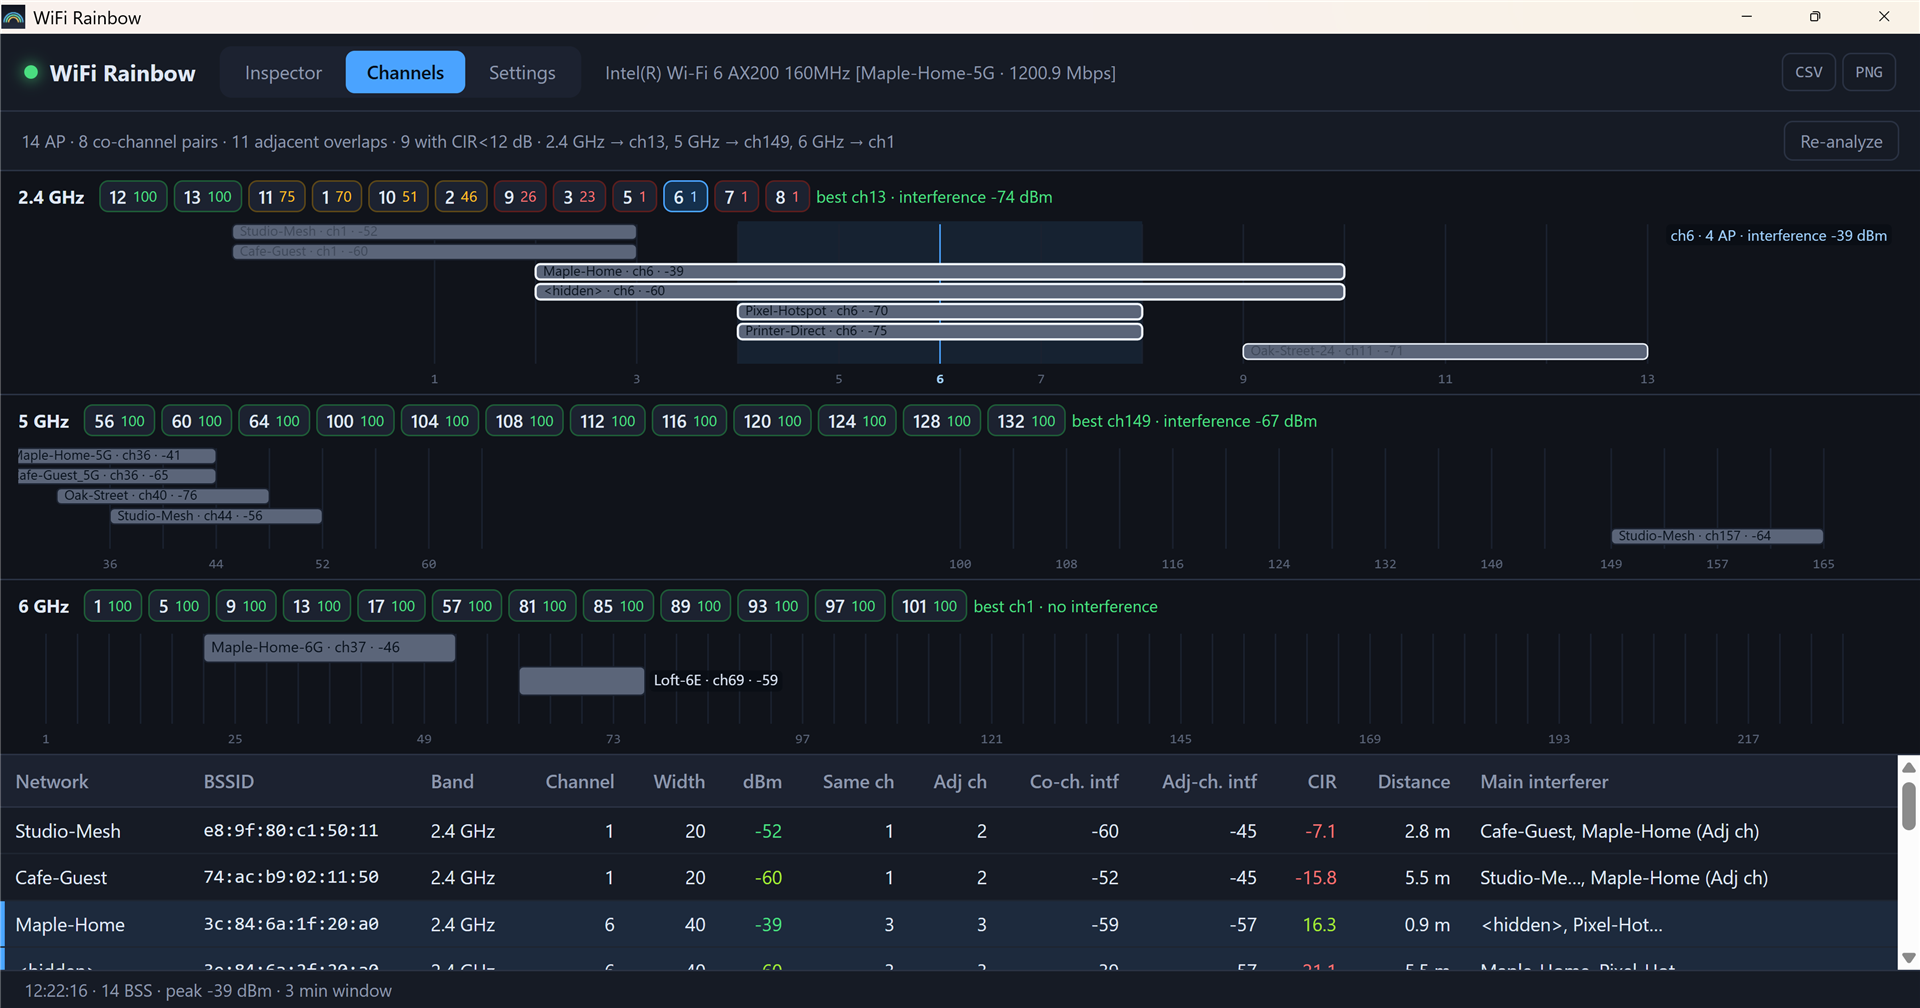
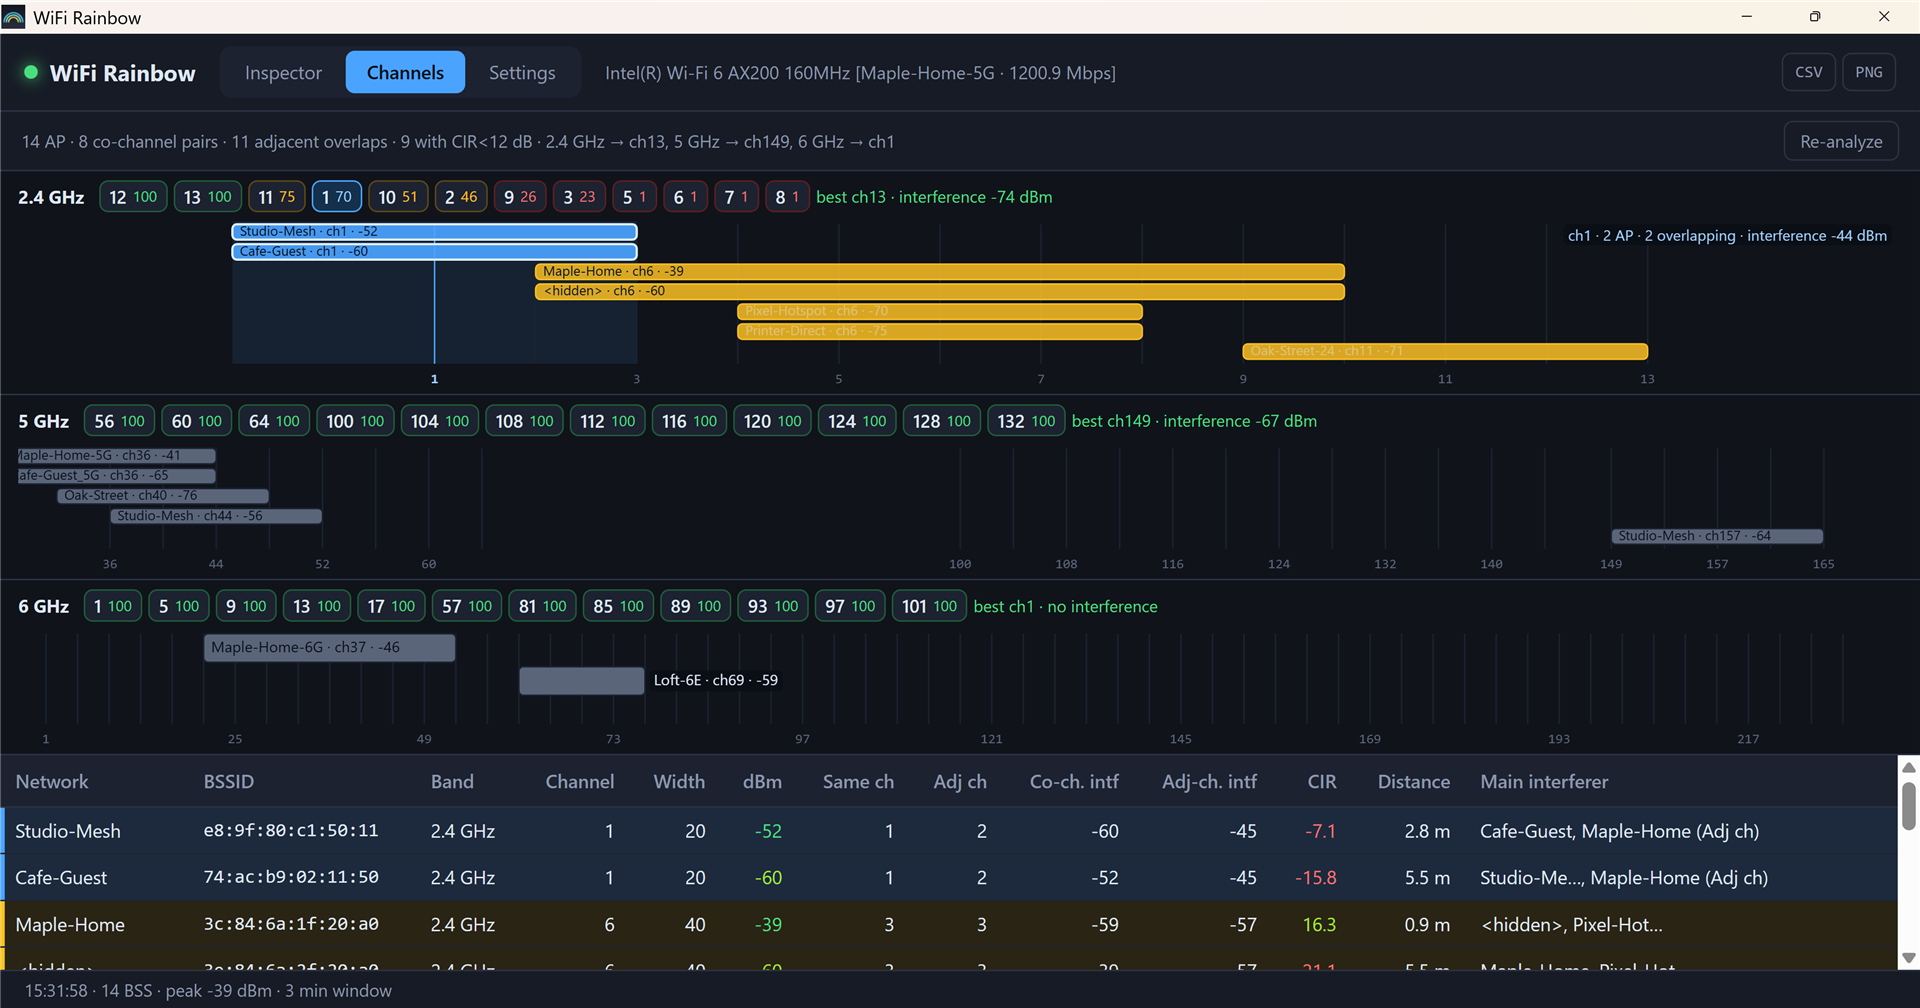
Channels: two-level hover highlight (primary blue, overlap amber)
Hovering a channel used to light up every AP whose spectrum overlapped the
channel centre +/-10 MHz. On 2.4 GHz that means a 20 MHz AP on ch1 lit up
when hovering ch3, which read as "ch3 has four APs". Split the states:

- primary channel == hovered channel: blue fill, light outline
- spectrum overlaps but primary differs: amber fill (interferes with it)
- unrelated: keep the signal colour, dimmed

The corner caption now says "chN · k AP · m overlapping · interference",
table rows use the same two colours (.hl / .hl2), and the self-test probe
checks both counts. Demo hover moved to ch1 so the screenshot shows all
three states; manuals, landing copy and READMEs updated to match.

diff --git a/rust/ui/channels.js b/rust/ui/channels.js
@@ -158,6 +158,23 @@ const Channels = (() => {
     return Math.min(center + 10, s.hi) - Math.max(center - 10, s.lo) > 0;
   }
 
+  /**
+   * 悬停某个信道时一个 AP 的高亮等级：
+   *   2 = 主信道就是这个信道（蓝）
+   *   1 = 主信道不是它，但频谱重叠、会干扰这个信道（琥珀）
+   *   0 = 无关（压暗）
+   * 2.4 GHz 信道间隔只有 5 MHz，一个 20 MHz 的 AP 实际压着相邻 ±4 个信道，
+   * 只按重叠判定会让「悬停 ch3」把 ch1 上的 AP 全点亮，所以要把「在这个信道上」和「会干扰这个信道」分开。
+   */
+  function hlLevel(ap, band, ch) {
+    if (ap.band !== band) return 0;
+    if (ap.channel === ch) return 2;
+    return onChannel(ap, band, ch) ? 1 : 0;
+  }
+
+  const HL_PRIMARY = '#4aa3ff'; // 和悬停竖带 / 评分标签同一个蓝
+  const HL_OVERLAP = '#fbbf24';
+
   function drawSpectrum(cv, bandInfo) {
     const { spec } = bandInfo;
     const hl = hover && hover.band === bandInfo.band ? hover.ch : null;
@@ -228,18 +245,21 @@ const Channels = (() => {
       const y = padT + i * rowH;
       const bh = Math.max(5, rowH - 3);
       const color = rssiColor(ap.rssi);
-      // 高亮态：命中的条全亮 + 白边，其余压暗
-      const hit = hl != null && onChannel(ap, bandInfo.band, hl);
-      const dim = hl != null && !hit;
-      ctx.fillStyle = hexAlpha(color, dim ? 0.18 : hit ? 0.95 : 0.75);
+      // 高亮态：主信道命中的条变蓝 + 亮边，只是频谱重叠的变琥珀，其余保留信号色但压暗
+      const level = hl == null ? -1 : hlLevel(ap, bandInfo.band, hl);
+      const hit = level === 2;
+      const dim = level === 0;
+      const fillHex = level === 2 ? HL_PRIMARY : level === 1 ? HL_OVERLAP : color;
+      const fillA = level === 2 ? 0.92 : level === 1 ? 0.85 : dim ? 0.18 : 0.75;
+      ctx.fillStyle = hexAlpha(fillHex, fillA);
       ctx.beginPath();
       const r = Math.min(3, bh / 2);
       ctx.roundRect ? ctx.roundRect(x0, y, Math.max(3, x1 - x0), bh, r) : ctx.rect(x0, y, Math.max(3, x1 - x0), bh);
       ctx.fill();
-      ctx.strokeStyle = hit ? '#eef4fc' : hexAlpha(color, dim ? 0.3 : 0.95);
+      ctx.strokeStyle = level === 2 ? '#dbeeff' : level === 1 ? HL_OVERLAP : hexAlpha(color, dim ? 0.3 : 0.95);
       ctx.lineWidth = hit ? 1.5 : 1;
       ctx.stroke();
-      jobs.push({ x0, x1, y, bh, color, ap, hit, dim });
+      jobs.push({ x0, x1, y, bh, color, ap, hit, dim, level, fillHex, fillA });
     });
 
     // 第二遍才写标签：块够宽写在块里（字色按块色算），不够宽贴到块外并垫一块深色底衬。
@@ -256,7 +276,7 @@ const Channels = (() => {
       }
     };
 
-    jobs.forEach(({ x0, x1, y, bh, color, ap, hit, dim }) => {
+    jobs.forEach(({ x0, x1, y, bh, ap, dim, fillHex, fillA }) => {
       const label = `${truncate(ap.ssid || t('ch.hidden'), 14)} · ch${ap.channel ?? '?'} · ${ap.rssi}`;
       ctx.globalAlpha = dim ? 0.35 : 1;
       const fs = rowH >= 14 ? 10 : 9;
@@ -284,7 +304,7 @@ const Channels = (() => {
       if (text !== label) text = text + '…';
       const tw = ctx.measureText(text).width;
       if (inside) {
-        ctx.fillStyle = inkOn(color, hit ? 0.95 : 0.75);
+        ctx.fillStyle = inkOn(fillHex, fillA);
         ctx.fillText(text, x0 + 5, ty);
       } else {
         let lx = x1 + 6;
@@ -300,13 +320,21 @@ const Channels = (() => {
     });
 
     cv._labelStats = { bars: aps.length, labeled };
-    cv._hl = hl == null ? null : { ch: hl, hits: jobs.filter((j) => j.hit).map((j) => j.ap.bssid) };
+    cv._hl =
+      hl == null
+        ? null
+        : {
+            ch: hl,
+            hits: jobs.filter((j) => j.level === 2).map((j) => j.ap.bssid),
+            overlaps: jobs.filter((j) => j.level === 1).map((j) => j.ap.bssid),
+          };
 
-    // 高亮时在右上角写一行「chN · k 个 AP」
+    // 高亮时在右上角写一行「chN · k 个 AP · m 个重叠 · 干扰 x dBm」
     if (hl != null) {
-      const n = all.filter((a) => onChannel(a, bandInfo.band, hl)).length;
+      const n = all.filter((a) => hlLevel(a, bandInfo.band, hl) === 2).length;
+      const ov = all.filter((a) => hlLevel(a, bandInfo.band, hl) === 1).length;
       const sc = bandInfo.scored.find((s) => s.ch === hl);
-      const txt = t('ch.chip', { ch: hl, n, if: sc?.ifDbm ?? t('ch.none') });
+      const txt = t('ch.hover', { ch: hl, n, ov, if: sc?.ifDbm ?? t('ch.none') });
       ctx.font = '10px "Segoe UI", "Microsoft YaHei UI", sans-serif';
       ctx.textAlign = 'right';
       ctx.textBaseline = 'alphabetic';
@@ -338,11 +366,20 @@ const Channels = (() => {
       if (cv) drawSpectrum(cv, b);
     }
     document.querySelectorAll('.ch-chip.hl').forEach((el) => el.classList.remove('hl'));
-    document.querySelectorAll('#ch-table tbody tr.hl').forEach((el) => el.classList.remove('hl'));
+    document.querySelectorAll('#ch-table tbody tr.hl, #ch-table tbody tr.hl2').forEach((el) => el.classList.remove('hl', 'hl2'));
     if (!next) return;
     document.querySelector(`#ch-score-${bandId(next.band)} .ch-chip[data-ch="${next.ch}"]`)?.classList.add('hl');
-    const hits = new Set(Inspector.aps().filter((a) => a.band === next.band && onChannel(a, next.band, next.ch)).map((a) => a.bssid));
-    document.querySelectorAll('#ch-table tbody tr').forEach((tr) => tr.classList.toggle('hl', hits.has(tr.dataset.bssid)));
+    markRows(document.querySelectorAll('#ch-table tbody tr'), Inspector.aps(), next);
+  }
+
+  /** 表格行跟频谱同一套等级：主信道行 .hl（蓝），重叠行 .hl2（琥珀） */
+  function markRows(trs, aps, hv) {
+    const level = new Map(aps.map((a) => [a.bssid, hlLevel(a, hv.band, hv.ch)]));
+    trs.forEach((tr) => {
+      const l = level.get(tr.dataset.bssid) ?? 0;
+      tr.classList.toggle('hl', l === 2);
+      tr.classList.toggle('hl2', l === 1);
+    });
   }
 
   /** 频谱图上鼠标位置对应的信道：取中心频率最近、且在 ±10 MHz 内的候选信道 */
@@ -428,9 +465,8 @@ const Channels = (() => {
           </tr>`;
         })
         .join('');
-      const hits = hover ? new Set(aps.filter((a) => a.band === hover.band && onChannel(a, hover.band, hover.ch)).map((a) => a.bssid)) : null;
+      if (hover) markRows(tbody.querySelectorAll('tr'), aps, hover);
       tbody.querySelectorAll('tr').forEach((tr) => {
-        if (hits) tr.classList.toggle('hl', hits.has(tr.dataset.bssid));
         tr.addEventListener('click', () => {
           const ap = Inspector.aps().find((a) => a.bssid === tr.dataset.bssid);
           if (ap) Detail.show(ap);
@@ -468,5 +504,5 @@ const Channels = (() => {
     render();
   }
 
-  return { init, activate, render, analyze, profile, distanceOf, freqOf, spanOf, overlapRatio, highlight, onChannel, hover: () => hover };
+  return { init, activate, render, analyze, profile, distanceOf, freqOf, spanOf, overlapRatio, highlight, onChannel, hlLevel, hover: () => hover };
 })();

diff --git a/rust/ui/selftest.js b/rust/ui/selftest.js
@@ -90,14 +90,21 @@ const SelfTest = (() => {
         const ch = Number(chip.dataset.ch);
         chip.dispatchEvent(new MouseEvent('mouseenter', { bubbles: false }));
         await frames();
-        const expect = Inspector.aps().filter((a) => a.band === band && Channels.onChannel(a, band, ch));
-        const drawn = Math.min(8, expect.length); // 频谱最多画 8 条
+        // 两级高亮：主信道（hits / tr.hl）与只重叠（overlaps / tr.hl2）分开数；频谱最多画 8 条
+        const expect = Inspector.aps().filter((a) => Channels.hlLevel(a, band, ch) === 2);
+        const expectOv = Inspector.aps().filter((a) => Channels.hlLevel(a, band, ch) === 1);
         const hits = cv._hl?.hits?.length ?? -1;
+        const ovs = cv._hl?.overlaps?.length ?? -1;
         const rows = document.querySelectorAll('#ch-table tbody tr.hl').length;
+        const rows2 = document.querySelectorAll('#ch-table tbody tr.hl2').length;
         const chipOn = chip.classList.contains('hl');
+        const drawnOk = hits + ovs <= 8 && hits <= expect.length && ovs <= expectOv.length;
+        const rowsOk = rows === expect.length && rows2 === expectOv.length;
+        if (!drawnOk || !rowsOk || !chipOn) log('error', `chhover ${band} ch${ch}: hits=${hits}/${expect.length} ov=${ovs}/${expectOv.length} rows=${rows}/${rows2} chip=${chipOn}`);
         chip.dispatchEvent(new MouseEvent('mouseleave', { bubbles: false }));
         await frames();
-        const cleared = cv._hl === null && document.querySelectorAll('#ch-table tbody tr.hl, .ch-chip.hl').length === 0;
+        const cleared = cv._hl === null && document.querySelectorAll('#ch-table tbody tr.hl, #ch-table tbody tr.hl2, .ch-chip.hl').length === 0;
+        if (!cleared) log('error', `chhover ${band}: highlight not cleared`);
         // 画布悬停：在该信道中心位置造一次 mousemove，应该命中同一个信道
         const g = cv._geom;
         const b = cv._bandInfo;
@@ -108,7 +115,8 @@ const SelfTest = (() => {
         const viaCanvas = Channels.hover()?.ch === ch && Channels.hover()?.band === band;
         cv.dispatchEvent(new MouseEvent('mouseleave'));
         await frames();
-        out.push(`${band}:ch${ch} expect=${expect.length} drawnHits=${hits}/${drawn} rowsHl=${rows} chipOn=${chipOn} cleared=${cleared} canvasHover=${viaCanvas} bars=${b.aps.length}`);
+        if (!viaCanvas) log('error', `chhover ${band}: canvas mousemove did not land on ch${ch}`);
+        out.push(`${band}:ch${ch} primary=${hits}/${expect.length} overlap=${ovs}/${expectOv.length} rows=${rows}+${rows2} chipOn=${chipOn} cleared=${cleared} canvasHover=${viaCanvas} bars=${b.aps.length}`);
       }
       log('info', `selftest chhover: ${out.join(' | ')}`);
     } catch (e) {

diff --git a/rust/ui/i18n.js b/rust/ui/i18n.js
@@ -110,6 +110,7 @@ const I18n = (() => {
       'ch.best.dfs': '建议 ch{ch}（DFS）',
       'ch.best.none': '该频段无 AP',
       'ch.chip': 'ch{ch} · {n} 个 AP · 干扰 {if} dBm',
+      'ch.hover': 'ch{ch} · {n} 个 AP · {ov} 个重叠 · 干扰 {if} dBm',
       'ch.ifdbm': '干扰 {v} dBm',
       'ch.ifnone': '无干扰',
       'ch.none': '无',
@@ -295,6 +296,7 @@ const I18n = (() => {
       'ch.best.dfs': 'best ch{ch} (DFS)',
       'ch.best.none': 'no AP on this band',
       'ch.chip': 'ch{ch} · {n} AP · interference {if} dBm',
+      'ch.hover': 'ch{ch} · {n} AP · {ov} overlapping · interference {if} dBm',
       'ch.ifdbm': 'interference {v} dBm',
       'ch.ifnone': 'no interference',
       'ch.none': 'none',

diff --git a/rust/ui/style.css b/rust/ui/style.css
@@ -461,6 +461,8 @@ tbody td { padding: 6px 10px; white-space: nowrap; }
 .ch-chip.hl em { color: #9fd0ff; }
 #ch-table tbody tr.hl > td { background: #1d2a3d; }
 #ch-table tbody tr.hl > td:first-child { box-shadow: inset 3px 0 0 var(--accent); }
+#ch-table tbody tr.hl2 > td { background: #2a2414; }
+#ch-table tbody tr.hl2 > td:first-child { box-shadow: inset 3px 0 0 #fbbf24; }
 
 .ch-table-wrap { background: var(--panel); overflow: auto; padding-bottom: 6px; }
 #ch-table tbody tr { cursor: pointer; }

diff --git a/rust/ui/demo.js b/rust/ui/demo.js
@@ -152,7 +152,7 @@ const Demo = (() => {
     } else if (view === 'chhover') {
       clickTab('channels');
       await frames();
-      Channels.highlight('2.4 GHz', 6);
+      Channels.highlight('2.4 GHz', 1);
     } else if (view === 'settings') {
       clickTab('settings');
     }

diff --git a/docs/manual.en.md b/docs/manual.en.md
@@ -134,9 +134,15 @@ For each band:
 
 The table lists every AP with its co-channel and adjacent-channel neighbours, the interference power from each kind, the CIR, the estimated distance and the main interferers. Click a row to open the details drawer. *Re-analyze* recomputes from the last scan without rescanning.
 
-**Who is on a channel?** Hover a channel's score chip, or hover the spectrum at that channel number, and the bars of the APs on that channel light up (white outline) while the others dim; a light-blue band marks the channel's range, the top-right corner shows how many APs are on it and how strong the interference is, and the matching rows in the table are highlighted too. "On the channel" uses the same rule as the score: the AP's spectrum overlaps the channel centre ±10 MHz. Move the mouse away to restore.
+**Who is on a channel?** Hover a channel's score chip, or hover the spectrum at that channel number, and each bar is recoloured by its relation to that channel:
 
-![Hovering channel 6 on 2.4 GHz](images/en-chhover.png)
+- **Blue**: APs whose primary channel is this channel.
+- **Amber**: APs on another channel whose spectrum overlaps this one and therefore interferes with it. 2.4 GHz channels are only 5 MHz apart, so a 20 MHz AP covers four channels on either side; hovering ch3 turns the ch1 APs amber.
+- **Dimmed**: APs unrelated to this channel keep their signal colour but fade out.
+
+A light-blue band marks the channel's range, the top-right corner shows how many APs are on the channel, how many overlap it and how strong the interference is, and the matching rows in the table are marked with the same two colours. Move the mouse away to restore.
+
+![Hovering channel 1 on 2.4 GHz: ch1 APs turn blue, the 40 MHz ch6 APs turn amber](images/en-chhover.png)
 
 The model sums overlapping power only; it does not simulate CSMA contention. Treat the numbers as a ranking, not a prediction of throughput.
 

diff --git a/docs/README.zh-CN.md b/docs/README.zh-CN.md
@@ -31,7 +31,7 @@ Rust + Tauri 2 + 原生 HTML/JS，除了 Windows 自带的 WebView2 没有任何
 - 三频段频谱占用图
 - 同频 / 邻频重叠分析、载干比（CIR）、主要干扰源
 - 每频段的候选信道评分与建议信道（5 GHz 避开 DFS）
-- 鼠标悬停某个信道，高亮该信道上的所有 AP
+- 鼠标悬停某个信道：该信道上的 AP 变蓝，频谱重叠会干扰它的变琥珀，其余压暗
 
 **AP 详情抽屉**
 - 信号 / 质量 / 估算距离 / 厂商、最近 3 分钟 sparkline、干扰画像

diff --git a/README.md b/README.md
@@ -31,7 +31,7 @@ Requirements: Windows 10 / 11 x64, a wireless adapter, the [WebView2 runtime](ht
 - Spectrum occupancy per band
 - Co-/adjacent-channel overlap, carrier-to-interference ratio (CIR), main interferers
 - Channel scores and a recommended channel per band (5 GHz avoids DFS)
-- Hover a channel to highlight every AP on it
+- Hover a channel: APs on it turn blue, overlapping interferers turn amber, the rest dim
 
 **AP details drawer**
 - Signal / quality / estimated distance / vendor, 3-minute sparkline, interference profile
